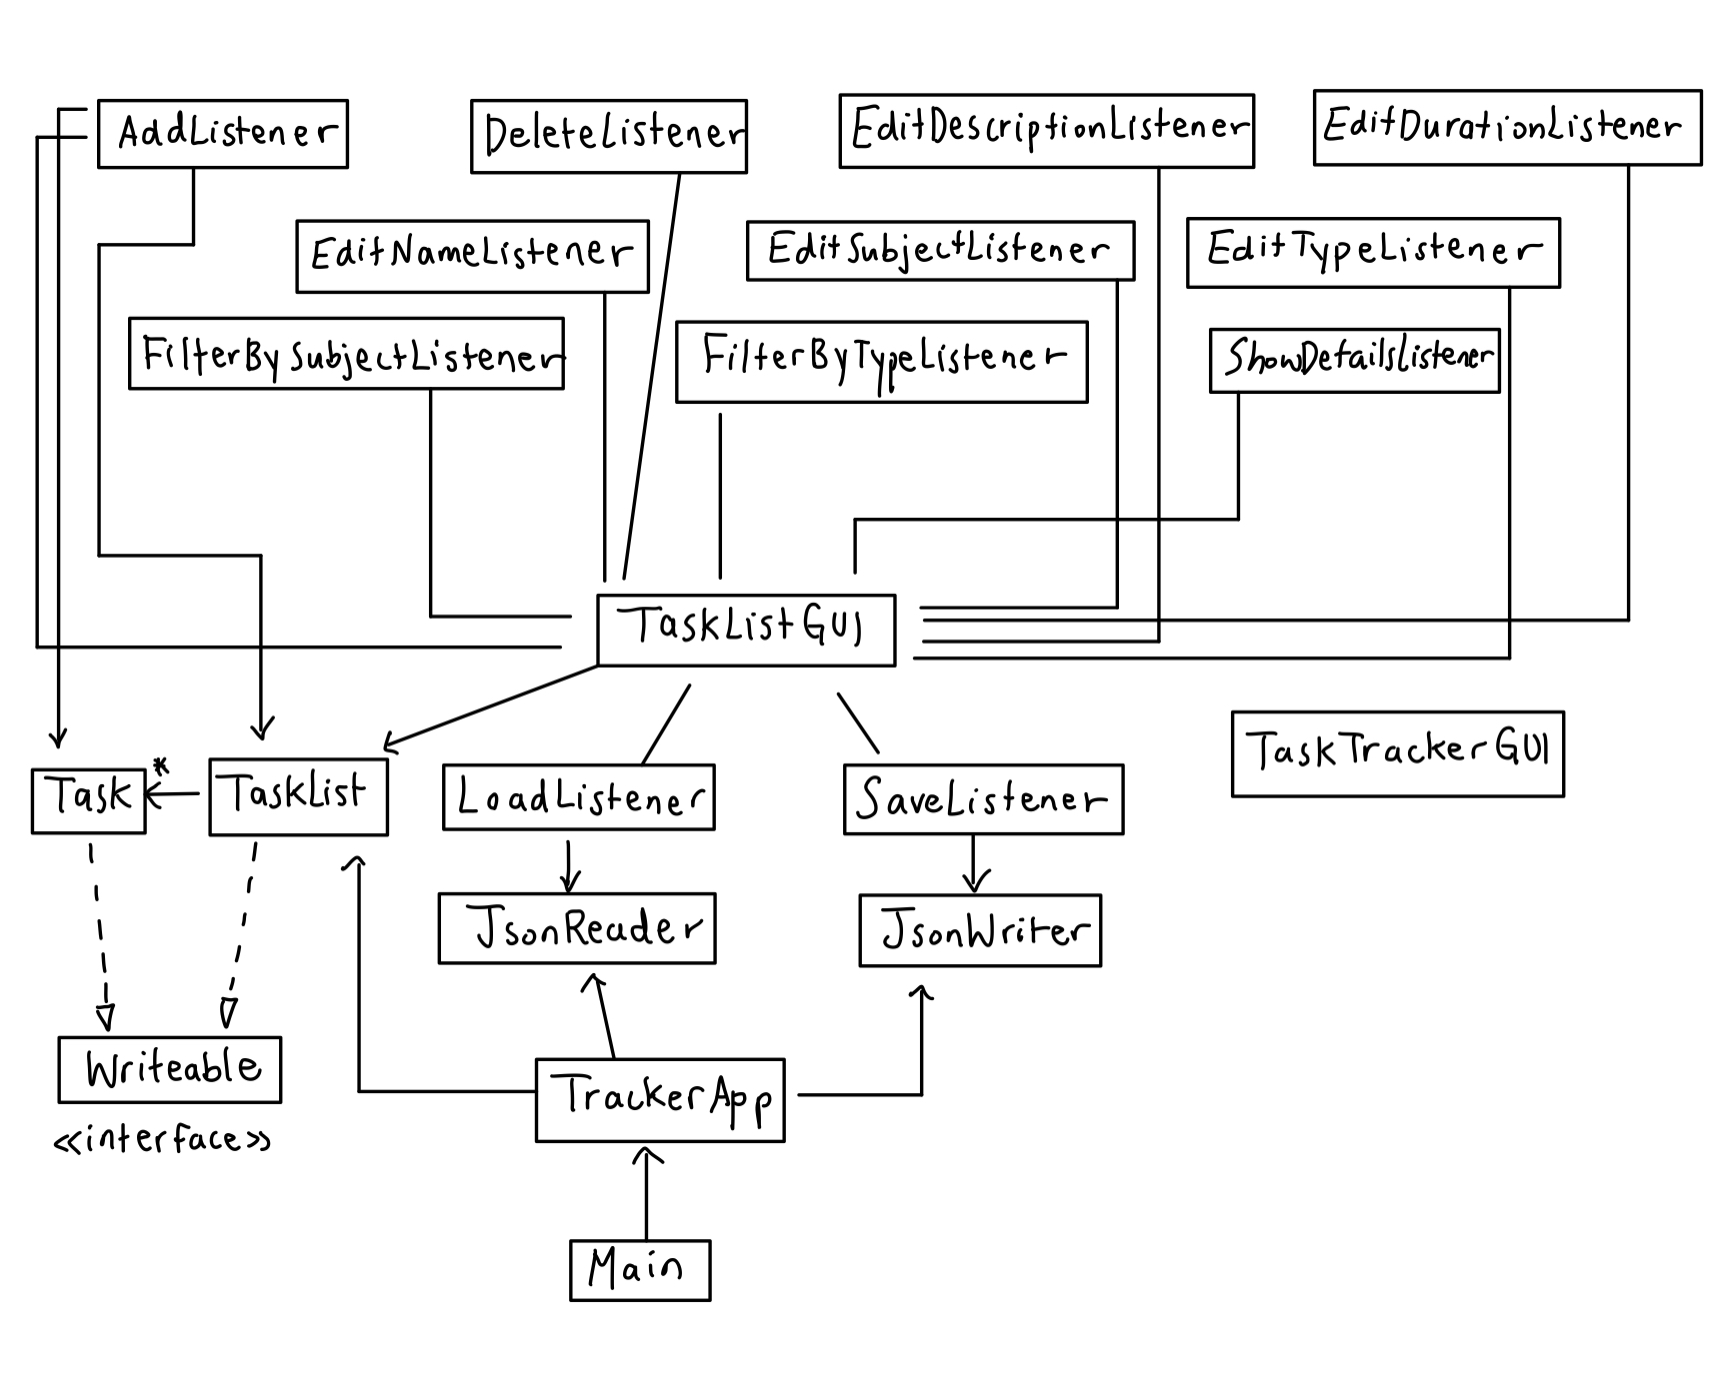
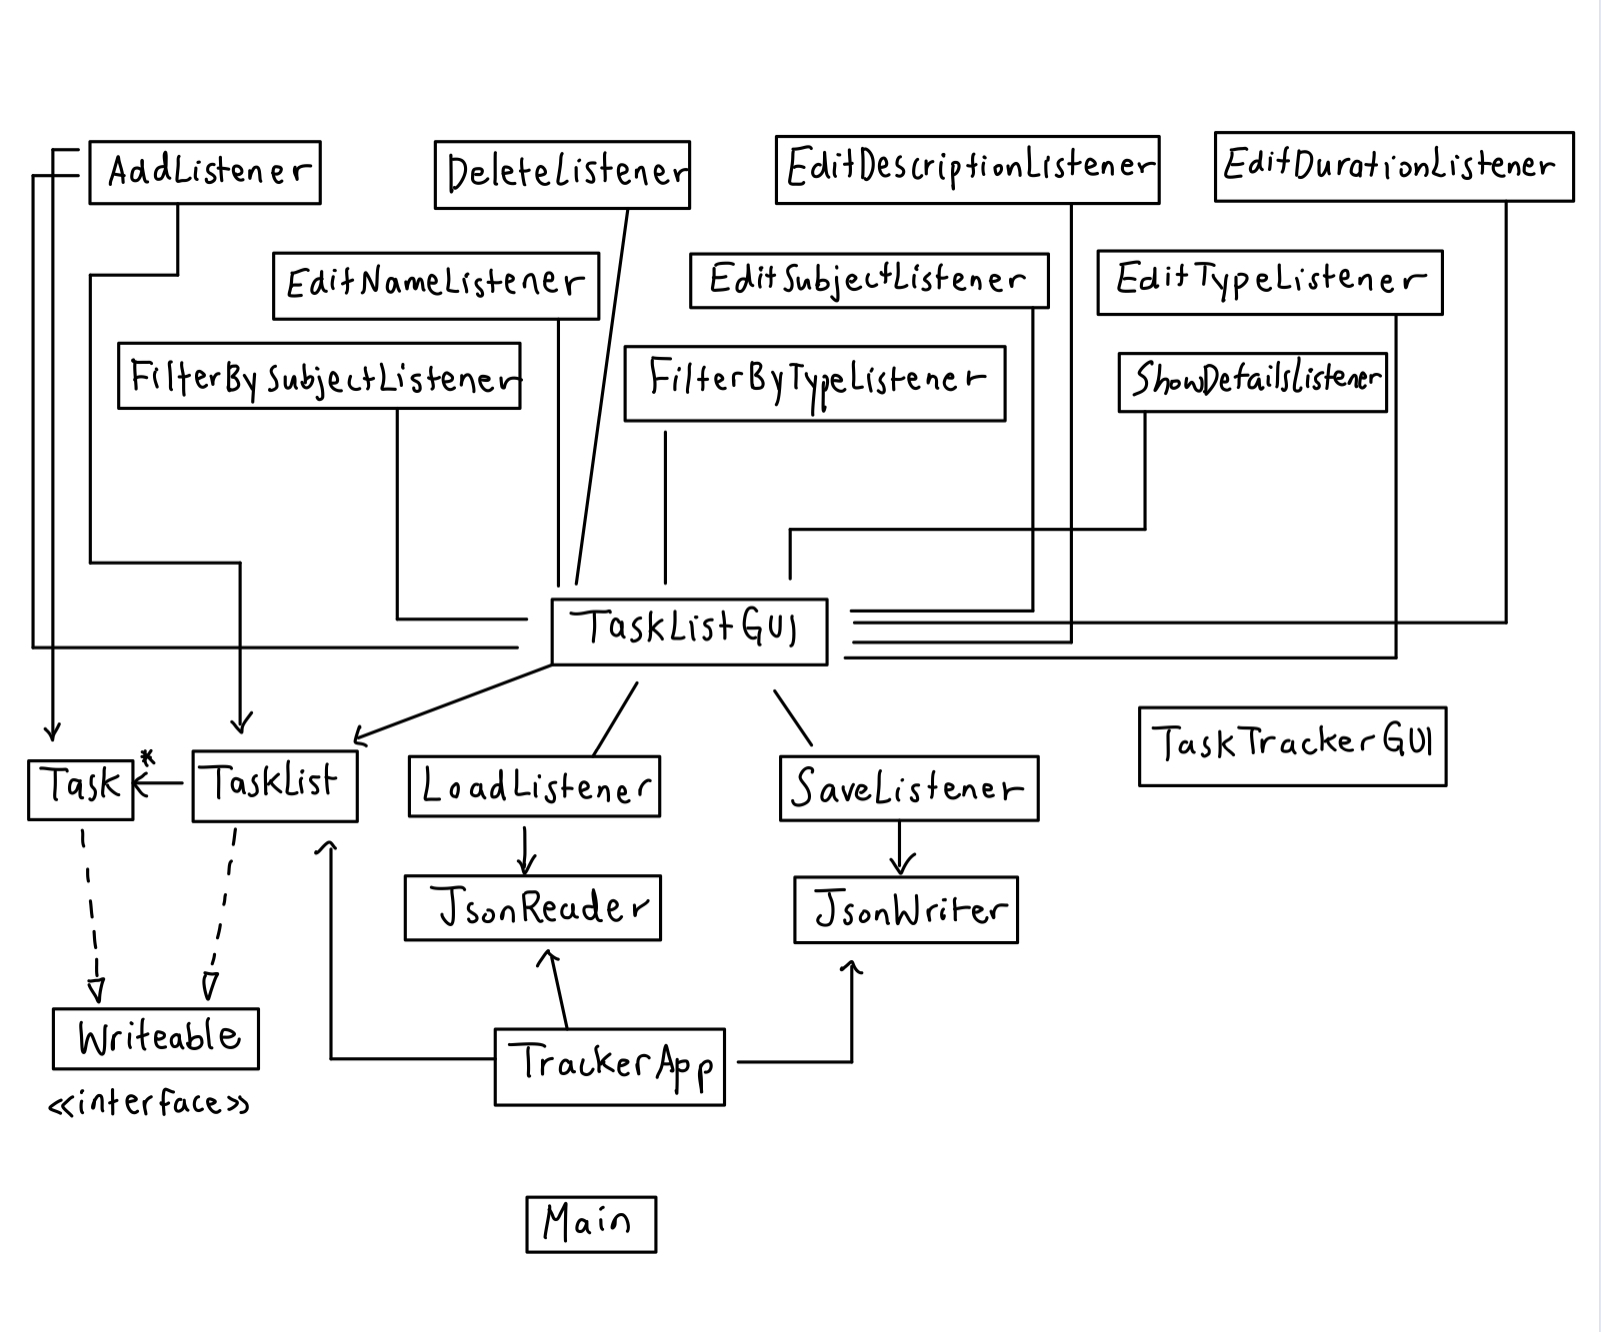
deleted unwanted "requires" clause and fixed a minor error of association between Main and TrackerApp in UML Diagram

Changed region(s): [[0.0, 0.0, 1.0, 1.0], [0.3123, 0.8619, 0.4372, 0.9542]]

diff --git a/src/main/gui/TaskListGUI.java b/src/main/gui/TaskListGUI.java
@@ -13,8 +13,8 @@ import java.awt.event.WindowListener;
 
 
 public class TaskListGUI extends JPanel implements ListSelectionListener, WindowListener {
-    private static final int WIDTH = 300;
-    private static final int HEIGHT = 400;
+    private static final int WIDTH = 400;
+    private static final int HEIGHT = 200;
 
     private JList list;
     private DefaultListModel listModel;
@@ -60,7 +60,7 @@ public class TaskListGUI extends JPanel implements ListSelectionListener, Window
         parent.addWindowListener(this);
         panel = new JPanel();
         panel.setPreferredSize(new Dimension(WIDTH, HEIGHT));
-        add(panel);
+        add(panel, BorderLayout.CENTER);
 
         askToLoad();
         listModel = new DefaultListModel();
@@ -191,7 +191,7 @@ public class TaskListGUI extends JPanel implements ListSelectionListener, Window
         updateFrogLabel();
         imagePane.add(frogLabel);
         imagePane.add(weightLabel);
-        add(imagePane, BorderLayout.BEFORE_FIRST_LINE);
+        add(imagePane, BorderLayout.WEST);
     }
 
     //MODIFIES: this

diff --git a/src/main/model/TaskList.java b/src/main/model/TaskList.java
@@ -5,13 +5,13 @@ import exception.TaskNotFoundException;
 import exception.TypeNotFoundException;
 import org.json.JSONArray;
 import org.json.JSONObject;
-import persistence.Writable;
+import persistence.Writeable;
 
 import java.util.ArrayList;
 import java.util.List;
 
 // Represents a list of tasks, including weight of frog fed by the completed tasks
-public class TaskList implements Writable {
+public class TaskList implements Writeable {
 
     private List<Task> tl;
     private int frogWeight;
@@ -58,7 +58,7 @@ public class TaskList implements Writable {
         return taskNames;
     }
 
-    //REQUIRES: type must be an existing type in list
+
     //EFFECTS: if type is not already an existing type, throw TypeNotFoundException;
     //         otherwise, return the names of all the tasks of given type
     public String displayTasksOfType(String type) throws TypeNotFoundException {

diff --git a/src/main/model/Task.java b/src/main/model/Task.java
@@ -1,10 +1,10 @@
 package model;
 
 import org.json.JSONObject;
-import persistence.Writable;
+import persistence.Writeable;
 
 // Represents a task completed having a name, subject, type, duration (in minutes), and short description
-public class Task implements Writable {
+public class Task implements Writeable {
     private String taskName;
     private String subject;
     private String type;

diff --git a/src/main/persistence/Writeable.java b/src/main/persistence/Writeable.java
@@ -4,7 +4,7 @@ import org.json.JSONObject;
 
 // CITATION: JsonSerializationDemo
 // URL: https://github.students.cs.ubc.ca/CPSC210/JsonSerializationDemo
-public interface Writable {
+public interface Writeable {
     // EFFECTS: returns this as JSON object
     JSONObject toJson();
 }
